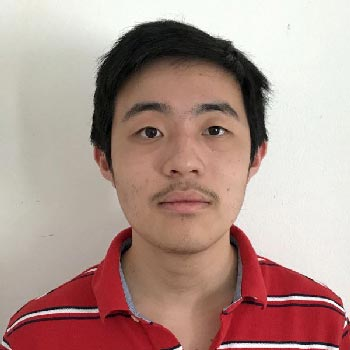
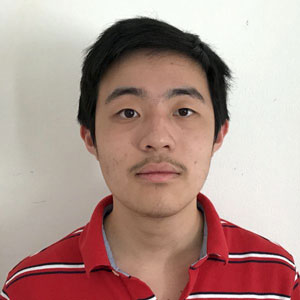
updated border

diff --git a/css/style.css b/css/style.css
@@ -52,15 +52,13 @@ details {
 }
 
 img[src="images/Jerry_Lu_Face.jpg"] {
-  width: 256px;
-  height: 256px;
-  border: 4px solid rgb(75, 25, 25);
-  border-radius: 12px;  
+  width: 300px;
+  height: 300px;
 }
 
-picture img {
-  border: 4px solid rgb(75, 25, 25);
-  border-radius: 12px;
+picture img, img[src="images/Jerry_Lu_Face.jpg"] {
+  border: 10px solid rgba(75, 25, 25, 0.784);
+  border-style: outset double;
 }
 
 section picture img {
